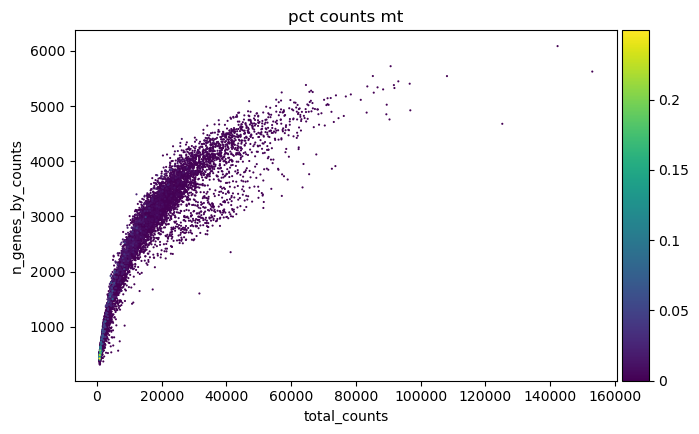
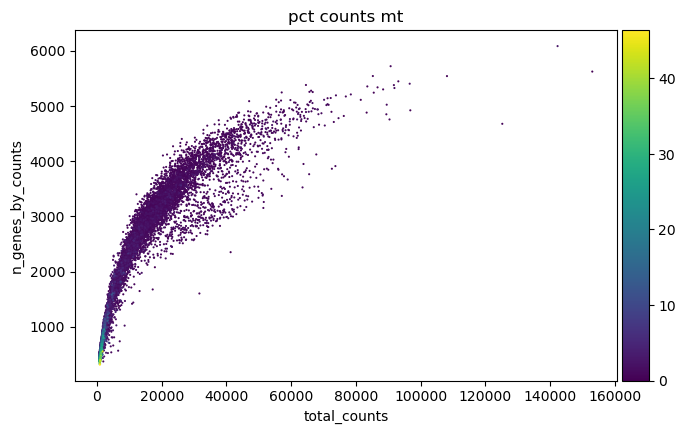
feat(qc): 修复小提琴图显示并添加完整基因集参数
- 新增 mt_genes_complete 参数用于完整线粒体基因集
- 更新 02_qc.py 脚本参数调用
- 更新生成的 violin 图和 scatter 图至 README_fig 目录

diff --git a/scripts/02_qc.py b/scripts/02_qc.py
@@ -51,7 +51,7 @@ def main(config: dict) -> None:
     figures_dir = Path(config["paths"]["figures_dir"])
 
     # ---参数---
-    mt_genes = config["params"]["qc"]["mt_genes"]
+    mt_genes = config["params"]["qc"]["mt_genes_complete"]
     mad_thresh = config["params"]["qc"]["mad_thresh"]
 
     # ---读取数据---
